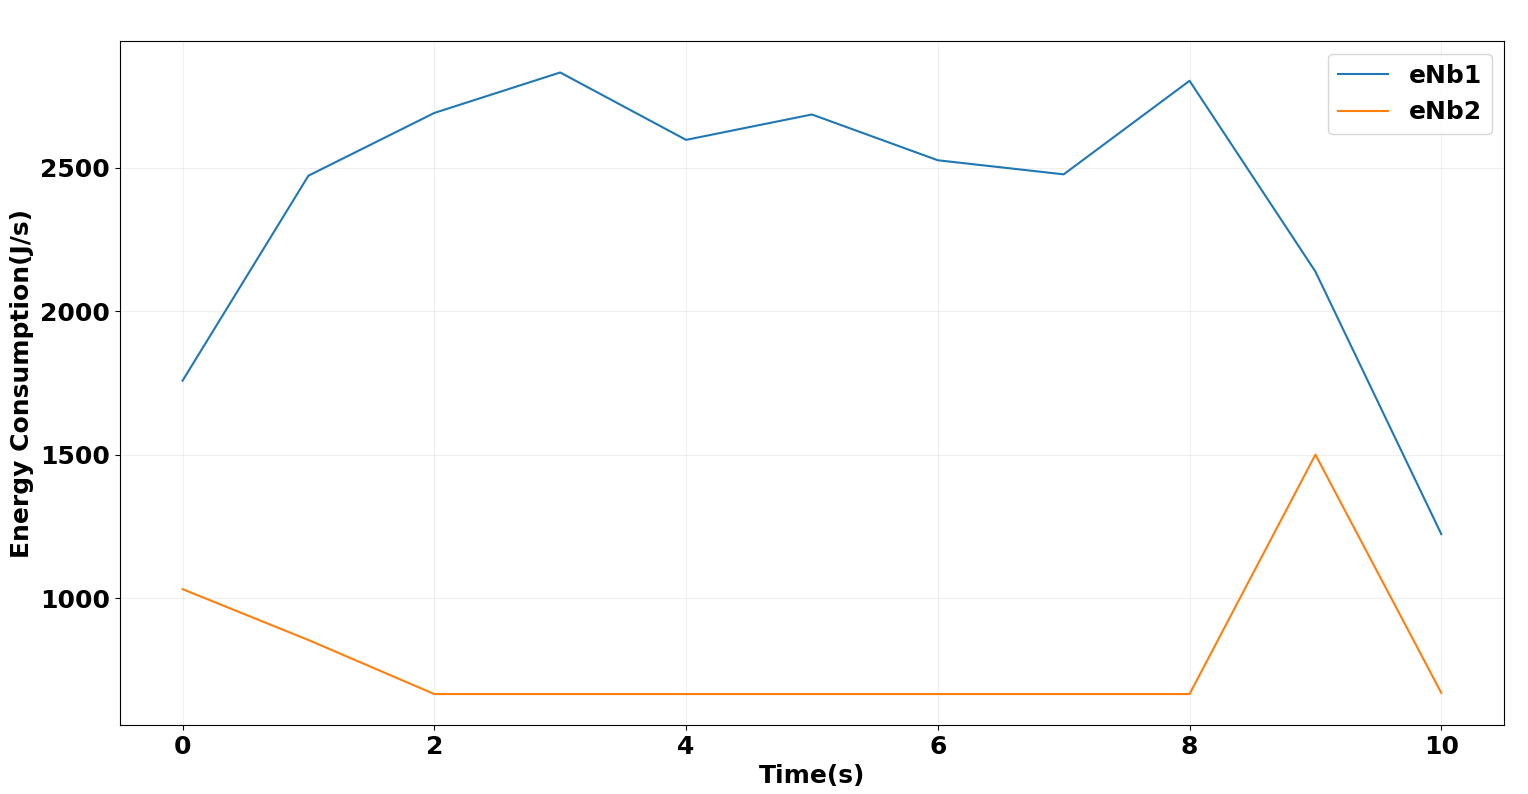
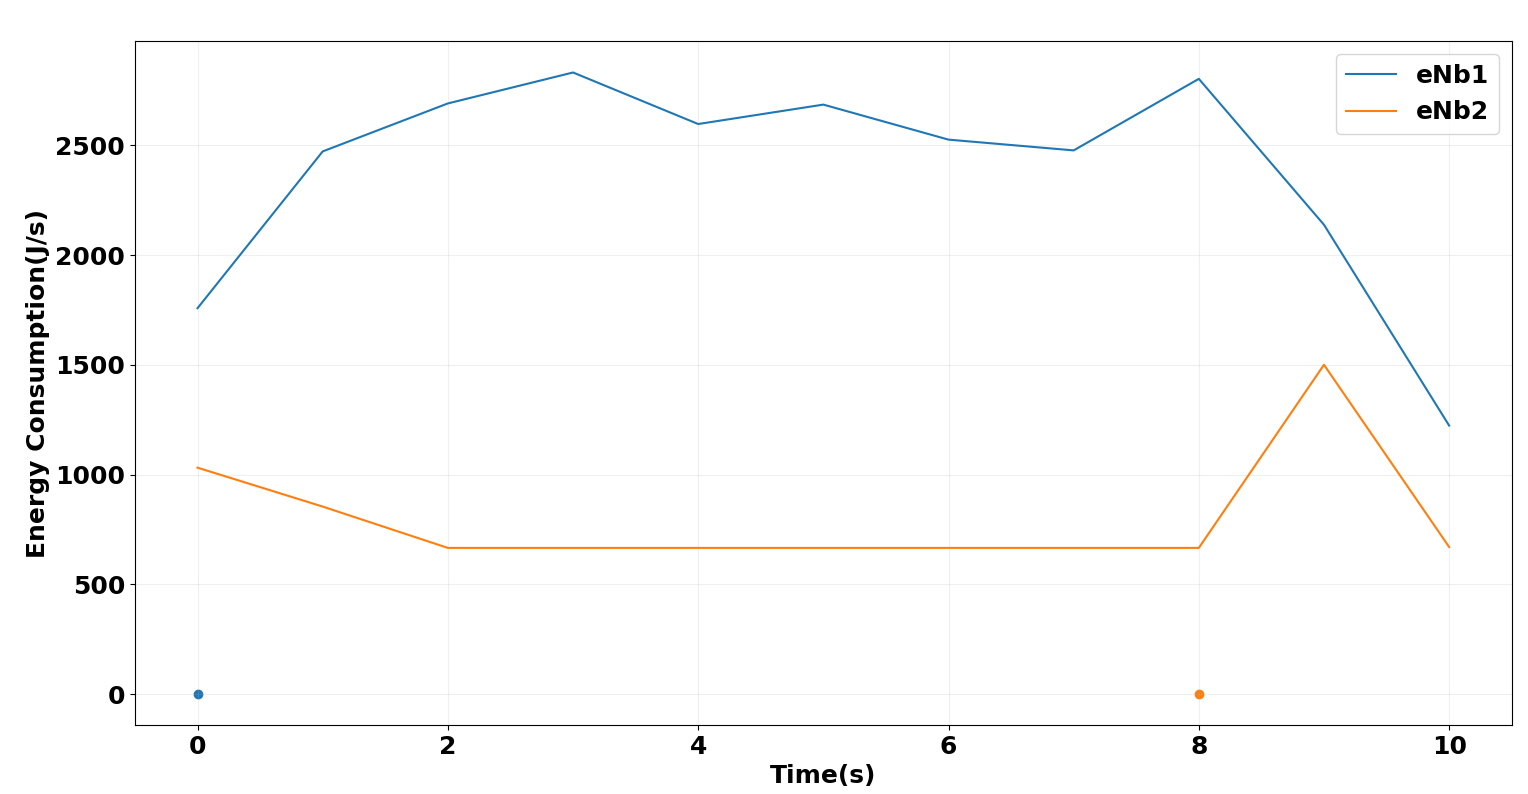
Updated energyModel

diff --git a/plot_Energy.py b/plot_Energy.py
@@ -1,5 +1,6 @@
 import matplotlib.pyplot as plt
 import csv
+import numpy as np
 plt.rcParams.update({'font.size': 18})
 plt.rcParams["figure.figsize"] = (11,7)
 plt.rcParams["font.weight"] = "bold"
@@ -8,8 +9,8 @@ plt.rcParams["axes.labelweight"] = "bold"
 plt.grid(alpha=0.2)
 plt.tight_layout()
 
-time_arr = []
-energy_arr = []
+time_arr = [0]
+energy_arr = [0]
 with open('energyfile1.csv', 'r') as csv_file:
     lines = csv.reader(csv_file)
     for line in lines:
@@ -21,8 +22,8 @@ with open('energyfile1.csv', 'r') as csv_file:
 # plt.plot(time_arr, energy_arr, label='EnB1')
 # plt.show()
 
-time_arr2 = []
-energy_arr2 = []
+time_arr2 = [0]
+energy_arr2 = [0]
 with open('energyfile2.csv', 'r') as csv_file:
     lines = csv.reader(csv_file)
     for line in lines:
@@ -64,6 +65,7 @@ for t, e in zip(time_arr, energy_arr):
 init_t = 0
 sum_e = 0
 energy_s2 = []
+
 for t, e in zip(time_arr2, energy_arr2):
     sum_e += e
     if t > init_t+1:
@@ -71,8 +73,31 @@ for t, e in zip(time_arr2, energy_arr2):
         energy_s2.append(sum_e)
         sum_e = 0
 
+hand = []
+hand1 = []
+hand2 = []
+with open('UeHandoverStartStats.txt', 'r') as file:
+    lines = file.readlines()
+    for line in lines:
+        line = line.split()
+        hand.append(float(line[0]))
+
+flag = 0
+for e in hand:
+    if flag == 0:
+        hand1.append(e)
+        flag = 1
+    else:
+        hand2.append(e)
+        flag = 0
+
+plt.scatter(0, 0, marker='^', color='tab:blue')
+plt.scatter(8,0, marker='^', color='tab:orange')
+
 plt.plot(energy_s, label='eNb1')
 plt.plot(energy_s2, label='eNb2')
+# plt.scatter(hand1, red_star, marker='^', label='eNb2 to eNb1')
+# plt.scatter(hand2, blue_star, marker='o', label='eNb1 to eNb2')
 plt.ylabel('Energy Consumption(J/s)')
 plt.xlabel('Time(s)')
 plt.legend()
